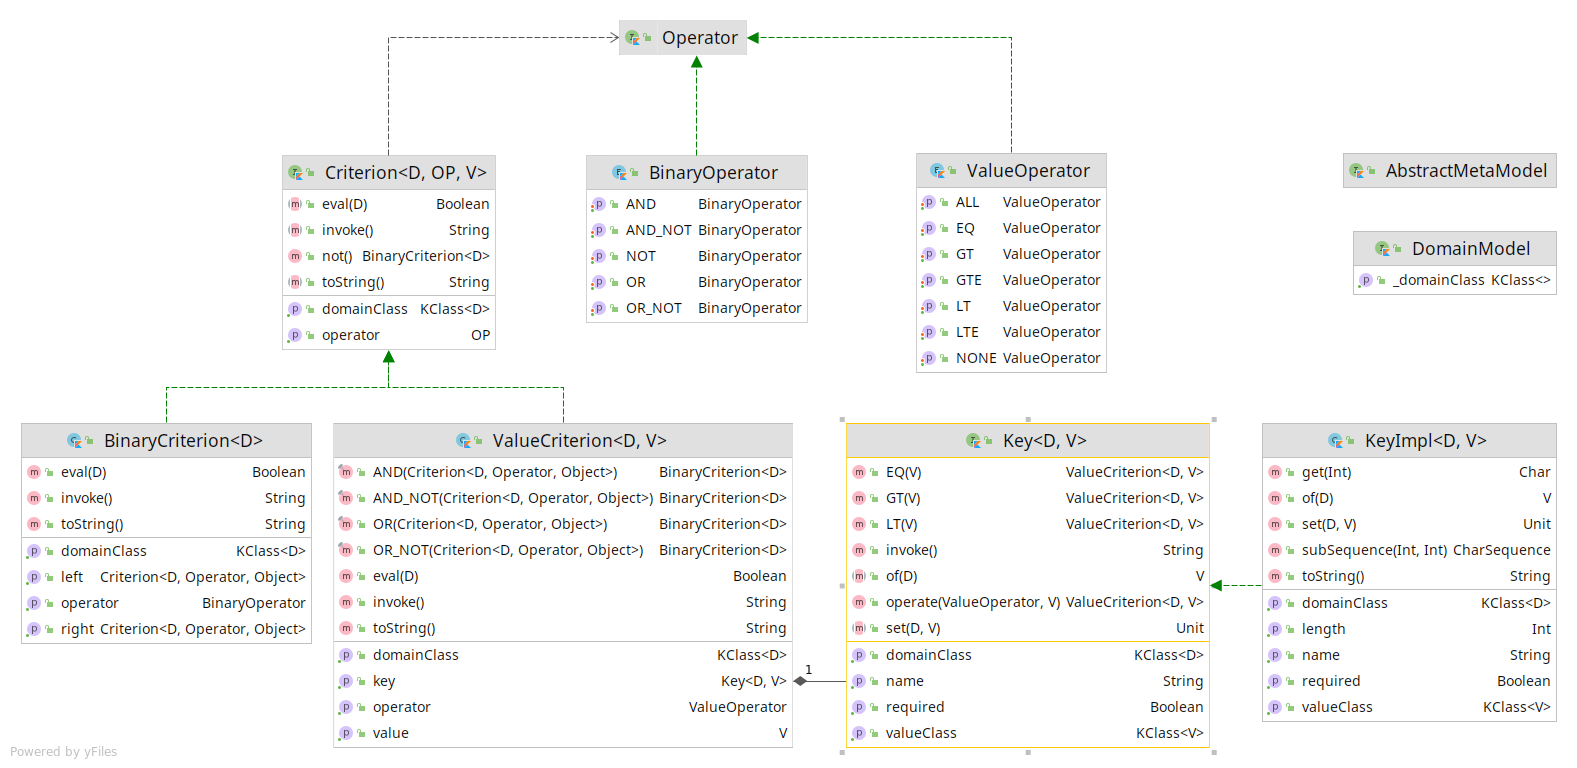
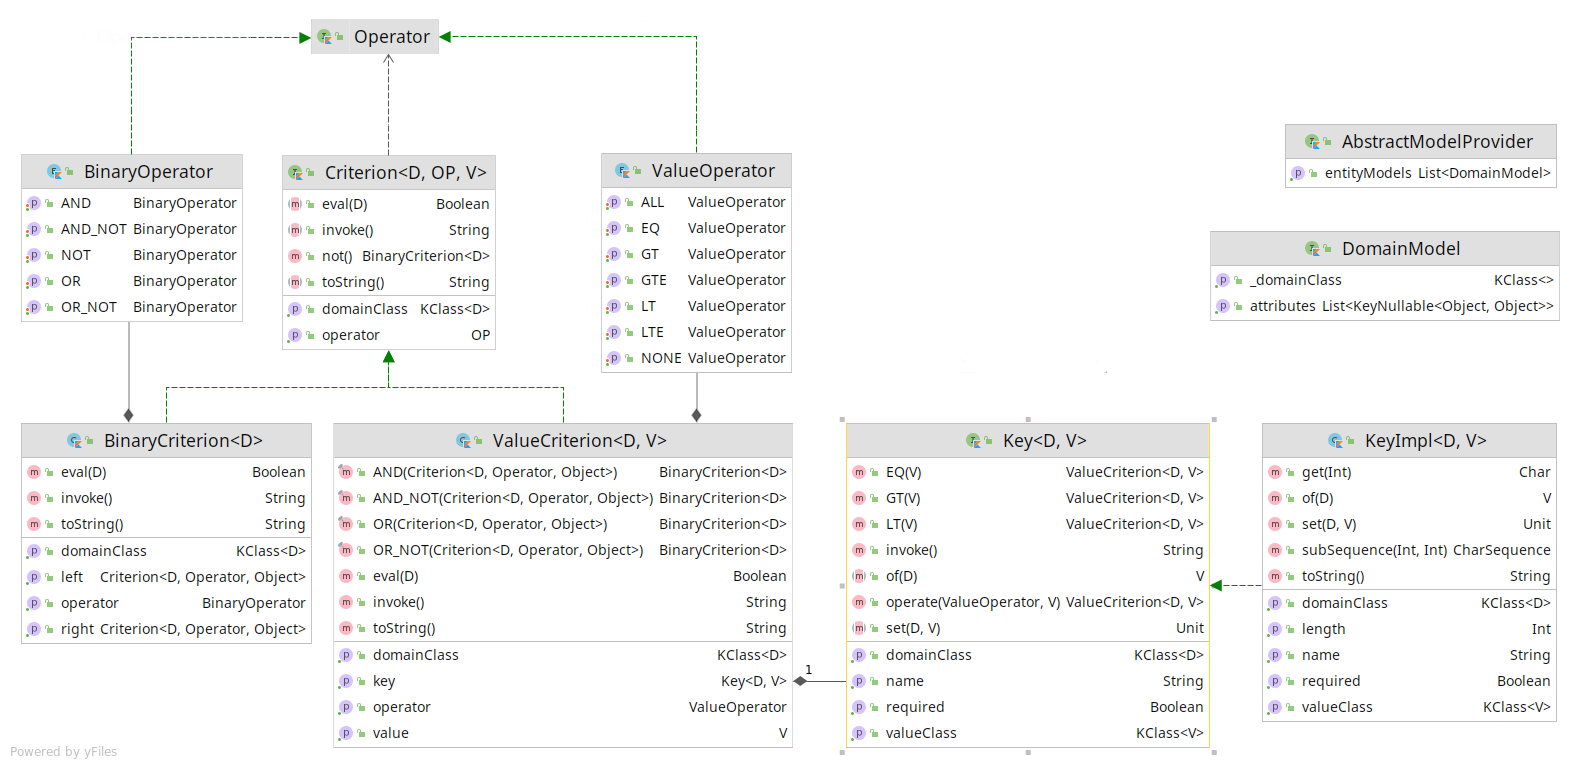
Bug fixing Documentation Class digram API cleaning

diff --git a/src/main/java/org/ujorm/kotlin/Ujorm.kt b/src/main/java/org/ujorm/kotlin/Ujorm.kt
@@ -24,11 +24,25 @@ interface Criterion<D : Any, out OP : Operator, out V : Any?> {
     val domainClass : KClass<D>
     val operator: OP
     fun eval(domain : D) : Boolean
-    fun not() = BinaryCriterion(this, BinaryOperator.NOT, this)
+    fun not() : Criterion<D, BinaryOperator, Criterion<D, Operator, Any?>>
+    = BinaryCriterion(this, BinaryOperator.NOT, this)
     /** Plain text expression */
     operator fun invoke(): String
     /** Extended text expression */
     override fun toString(): String
+
+    infix fun AND(crn: Criterion<D, out Operator, out Any>): BinaryCriterion<D> {
+        return BinaryCriterion(this, BinaryOperator.AND, crn)
+    }
+    infix fun OR (crn: Criterion<D, Operator, out Any>): BinaryCriterion<D> {
+        return BinaryCriterion(this, BinaryOperator.OR, crn)
+    }
+    infix fun AND_NOT (crn: Criterion<D, Operator, out Any>): BinaryCriterion<D> {
+        return BinaryCriterion(this, BinaryOperator.AND_NOT, crn)
+    }
+    infix fun OR_NOT (crn: Criterion<D, Operator, out Any>): BinaryCriterion<D> {
+        return BinaryCriterion(this, BinaryOperator.OR_NOT, crn)
+    }
 }
 
 interface KeyNullable<D : Any, V : Any> : CharSequence {
@@ -191,12 +205,15 @@ open class BinaryCriterion<D : Any> : Criterion<D, BinaryOperator, Criterion<D, 
 
     /** Plain text expression */
     override operator fun invoke(): String {
-        return "($left) $operator ($right))"
+        return when (operator) {
+            BinaryOperator.NOT -> /**/ "$operator (${right.invoke()})"
+            else -> "(${left.invoke()}) $operator (${right.invoke()})"
+        }
     }
 
     /** Extenced text expression */
     override fun toString(): String {
-        return "${domainClass} {${this()}}"
+        return "${domainClass.simpleName}: ${invoke()}"
     }
 }
 
@@ -239,26 +256,13 @@ open class ValueCriterion<D : Any, out V : Any> : Criterion<D, ValueOperator, V>
         }
     }
 
-    infix fun AND(crn: Criterion<D, out Operator, out Any>): BinaryCriterion<D> {
-        return BinaryCriterion(this, BinaryOperator.AND, crn)
-    }
-    infix fun OR (crn: Criterion<D, Operator, out Any>): BinaryCriterion<D> {
-        return BinaryCriterion(this, BinaryOperator.OR, crn)
-    }
-    infix fun AND_NOT (crn: Criterion<D, Operator, out Any>): BinaryCriterion<D> {
-        return BinaryCriterion(this, BinaryOperator.AND_NOT, crn)
-    }
-    infix fun OR_NOT (crn: Criterion<D, Operator, out Any>): BinaryCriterion<D> {
-        return BinaryCriterion(this, BinaryOperator.OR_NOT, crn)
-    }
-
     override operator fun invoke(): String {
         val separator = stringValueSeparator()
         return "$key $operator $separator$value$separator"
     }
 
     override fun toString(): String {
-        return "${key.domainClass.simpleName} {${this()}}"
+        return "${key.domainClass.simpleName}: ${invoke()}"
     }
 
     /** A separator for String values */
@@ -267,11 +271,16 @@ open class ValueCriterion<D : Any, out V : Any> : Criterion<D, ValueOperator, V>
     }
 }
 
-/** Interface of meta-model */
-interface AbstractMetaModel {}
+/** Interface of the domain meta-model */
+interface AbstractModelProvider {
+    /** Get all entity models */
+    val entityModels : List<DomainModel>
+}
 
 /** Meta-model of the domain object will be a generated class in the feature */
 interface DomainModel {
-    /** Domain class */
+    /** Get the main domain class */
     val _domainClass : KClass<*>
+    /** Get all attributes */
+    val attributes : List<KeyNullable<out Any, Any>>
 }

diff --git a/src/main/java/org/ujorm/kotlin/Demo.kt b/src/main/java/org/ujorm/kotlin/Demo.kt
@@ -20,15 +20,17 @@ import java.time.LocalDate
 import kotlin.reflect.KClass
 
 /** Sample of usage */
-fun main(args: Array<String>) {
+fun main() {
     val _user = ModelProvider.user
     val crn1 = _user.name EQ "Pavel"
     val crn2 = _user.id GT 1
     val crn3 = _user.id LT 99
     val crn4 = crn1 OR (crn2 AND crn3)
-    //val crn5 = crn1.not() OR (crn2 AND crn3) // TODO
-    assert(crn1.toString() == "User {name EQ \"Pavel\"}")
-    assert(crn2.toString() == "User {id GT 1}")
+    val crn5 = crn1.not() OR (crn2 AND crn3)
+    assert(crn1.toString() == "User: name EQ \"Pavel\"")
+    assert(crn2.toString() == "User: id GT 1")
+    assert(crn4.toString() == "User: (name EQ \"Pavel\") OR ((id GT 1) AND (id LT 99))")
+    assert(crn5.toString() == "User: (NOT (name EQ \"Pavel\")) OR ((id GT 1) AND (id LT 99))")
 
     val user = User(id = 11, name = "Xaver", born = LocalDate.now())
     val noValid : Boolean = crn1.eval(user)
@@ -43,8 +45,8 @@ fun main(args: Array<String>) {
     assert(userId == 11, { "userId" })
     assert(parent == null, { "userId" })
 
-    _user.name.set(user, "James");
-    _user.parent.set(user, null);
+    _user.name.set(user, "James")
+    _user.parent.set(user, null)
 
     val nameId1 : String = _user.id.toString()
     val nameId2 : String = _user.id()
@@ -82,9 +84,14 @@ open class _User : DomainModel{
         valueClass = User::class,
         setter = { d : User, v : User? -> d.parent = v },
         getter = { d : User -> d.parent}) // TODO: how to return the nullable value?
+
+    override val attributes: List<KeyNullable<User, Any>>
+        get() = TODO("listOf(id, name, parent), ...")
 }
 
 /** Provider of meta-models */
-object ModelProvider : AbstractMetaModel {
+object ModelProvider : AbstractModelProvider {
     val user = _User()
+    override val entityModels: List<DomainModel>
+        get() = TODO("listOf(user)")
 }

diff --git a/src/test/java/org/ujorm/kotlin/DemoKtTest.kt b/src/test/java/org/ujorm/kotlin/DemoKtTest.kt
@@ -8,6 +8,6 @@ internal class DemoKtTest {
 
     @Test
     fun mainTest() {
-        main1(arrayOf())
+        main1()
     }
 }

diff --git a/README.md b/README.md
@@ -1,7 +1,20 @@
 # ujormKt
 
-A very early prototype of a **key-value** implementation in Kotlin language.
-The solution is based on a design from the [Ujorm](https://pponec.github.io/ujorm/www/index.html) framework.
+A very early prototype of the Kotlin library for modelling filters using a domain object meta-model.
+The solution is based on a design from the [Ujorm](https://pponec.github.io/ujorm/www/index.html) key-value framework.
+Topical areas of use are:
+
+- validations
+- alerting
+- modelling conditions for ORM
+
+# What remains to be done
+
+- reading and writing remote attributes (via relationships) is not supported yet
+- the domain object model should be generated according to the original POJO objects in feature
+- API cleaning
+- Integration of model filters with the Hibernate framework
+
 
 ## Usage:
 
@@ -11,18 +24,26 @@ val crn1 = _user.name EQ "Pavel"
 val crn2 = _user.id GT 1
 val crn3 = _user.id LT 99
 val crn4 = crn1 OR (crn2 AND crn3)
-assert(crn1.toString() == "User {name EQ \"Pavel\"}")
-assert(crn2.toString() == "User {id GT 1}")
+val crn5 = crn1.not() OR (crn2 AND crn3)
+assert(crn1.toString() == "User: name EQ \"Pavel\"")
+assert(crn2.toString() == "User: id GT 1")
+assert(crn4.toString() == "User: (name EQ \"Pavel\") OR ((id GT 1) AND (id LT 99))")
+assert(crn5.toString() == "User: (NOT (name EQ \"Pavel\")) OR ((id GT 1) AND (id LT 99))")
 
 val user = User(id = 11, name = "Xaver", born = LocalDate.now())
 val noValid : Boolean = crn1.eval(user)
 val isValid : Boolean = crn4.eval(user)
 val userName : String = _user.name.of(user)
 val userId : Int = _user.id.of(user)
+val parent : User? = _user.parent.of(user)
 assert(!noValid, { "crn1.eval(user)" })
 assert( isValid, { "crn4.eval(user)" })
 assert(userName == "Xaver", { "userName" })
 assert(userId == 11, { "userId" })
+assert(parent == null, { "userId" })
+
+_user.name.set(user, "James")
+_user.parent.set(user, null)
 
 val nameId1 : String = _user.id.toString()
 val nameId2 : String = _user.id()
@@ -30,19 +51,15 @@ assert(nameId1 == "id", { "nameId1" } )
 assert(nameId2 == "id", { "nameId2" } )
 ``````
 
-## What is the use?
-
-The library allows you to build a meta-model according to domain objects.
-Using the model there is posssible to read and to write attribute values and create a structured condition models to a common use.
-For example:
-
-- validations
-- alerting
-- modelling conditions for ORM
-
 ## Class diagram
 
+Common classes of the framework (released: 2021-07-06)
+
 ![Class diagram](docs/Ujorm.png)
+
+An example implementation of this demo project (released: 2021-07-07)
+
+![Class diagram](docs/Demo.png)
 
 For more information see the 
 [source code](https://github.com/pponec/ujormKt/blob/main/src/main/java/org/ujorm/kotlin/Demo.kt).
